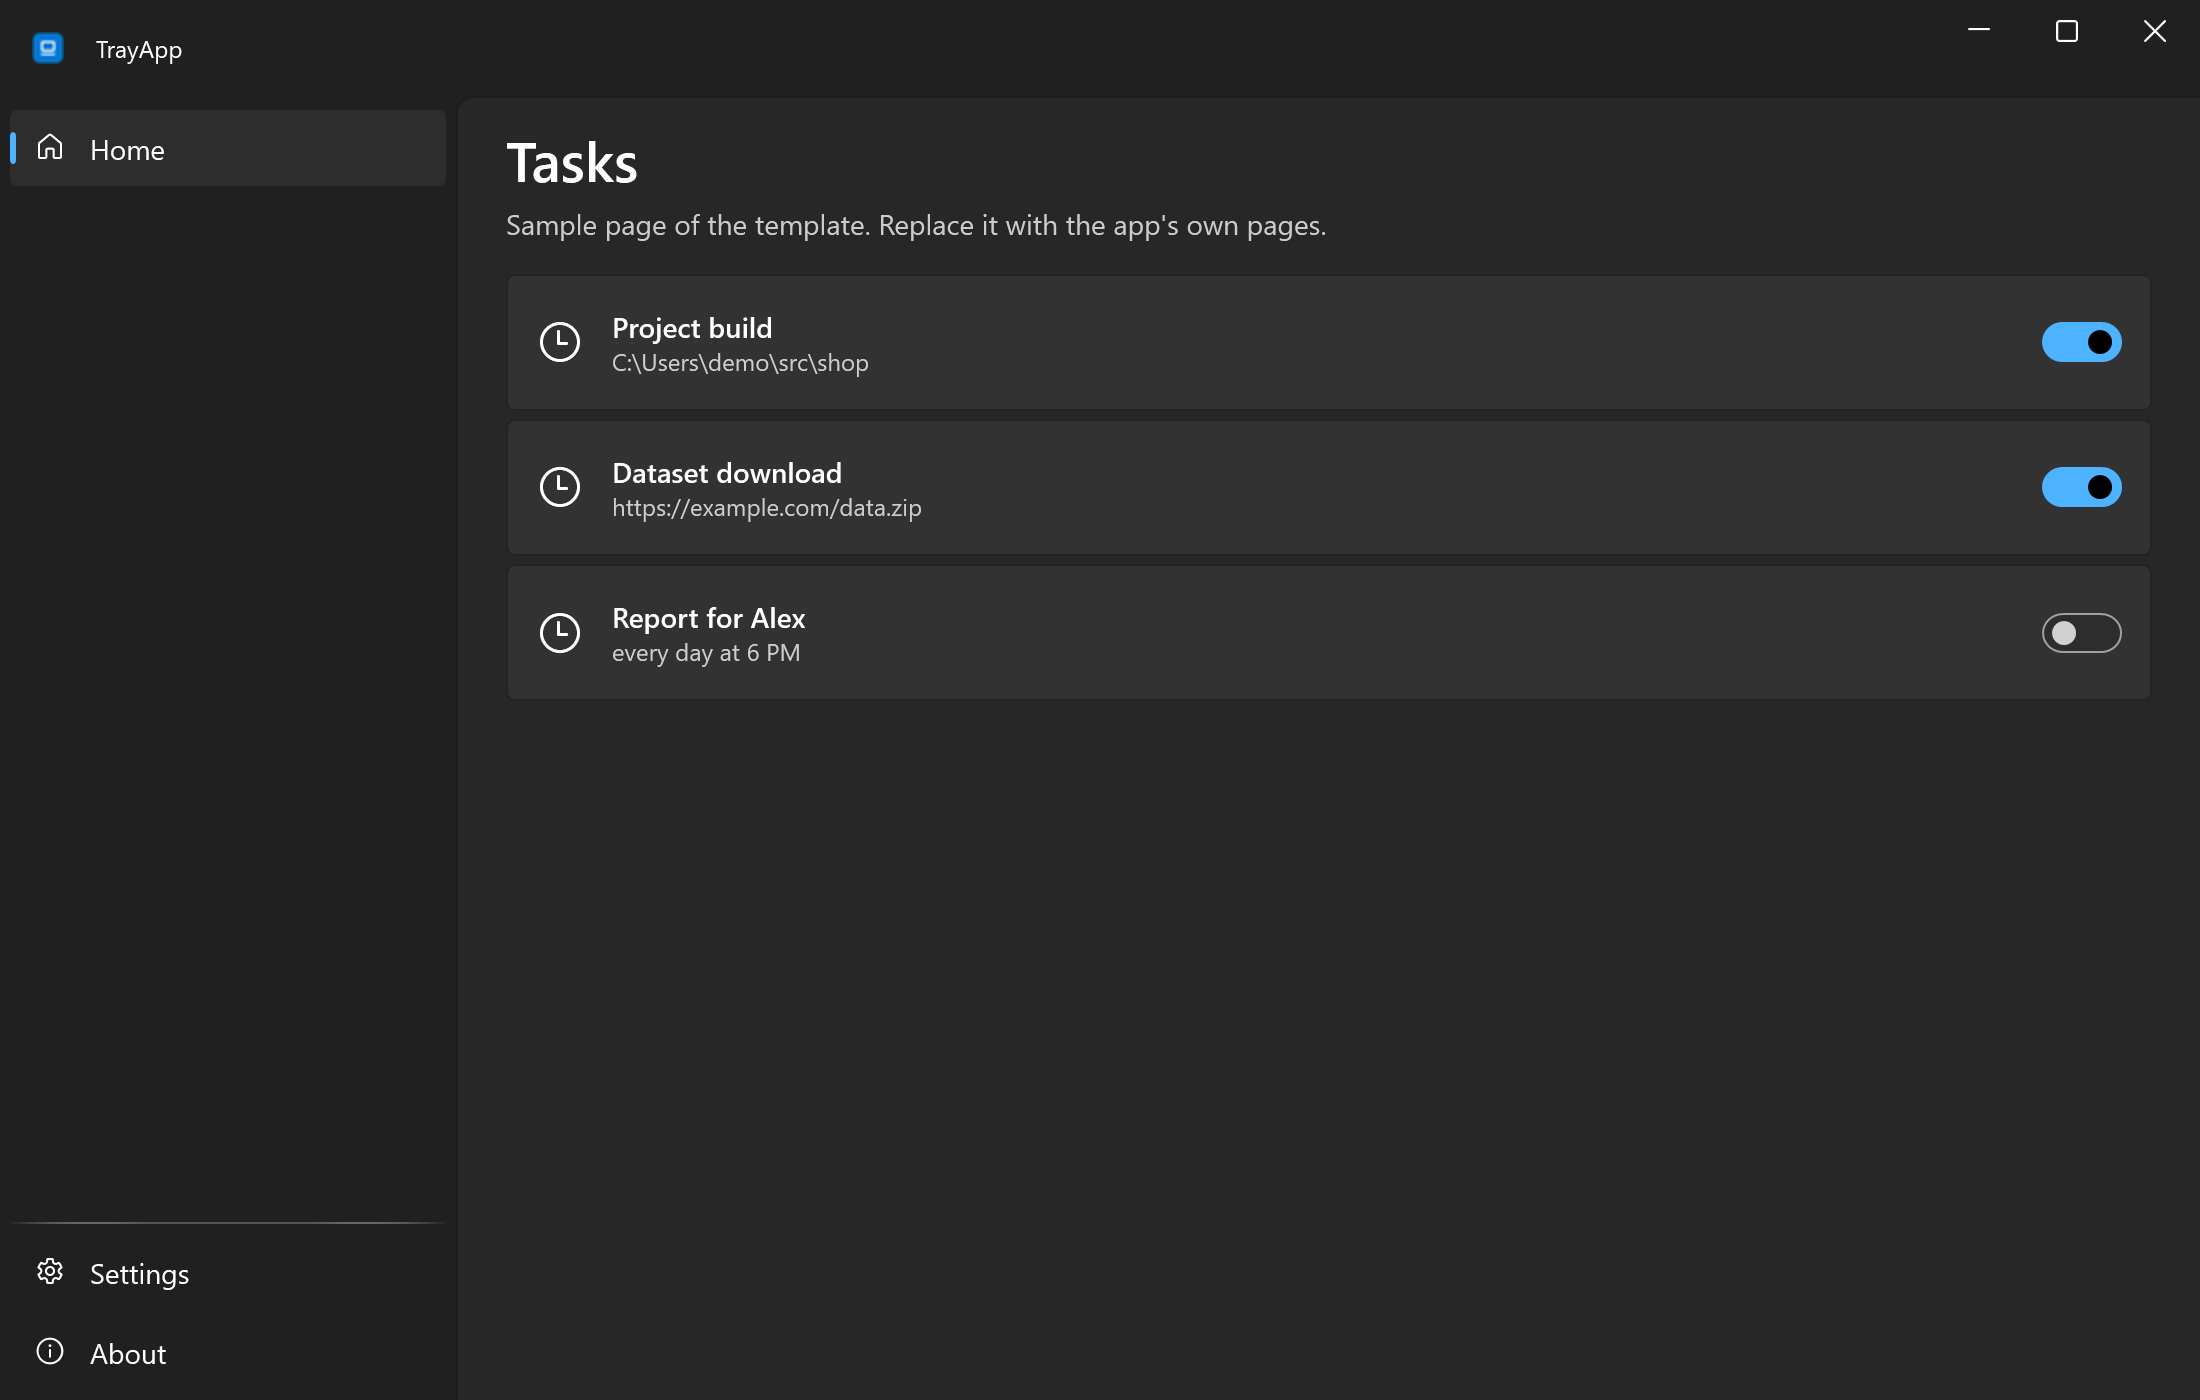
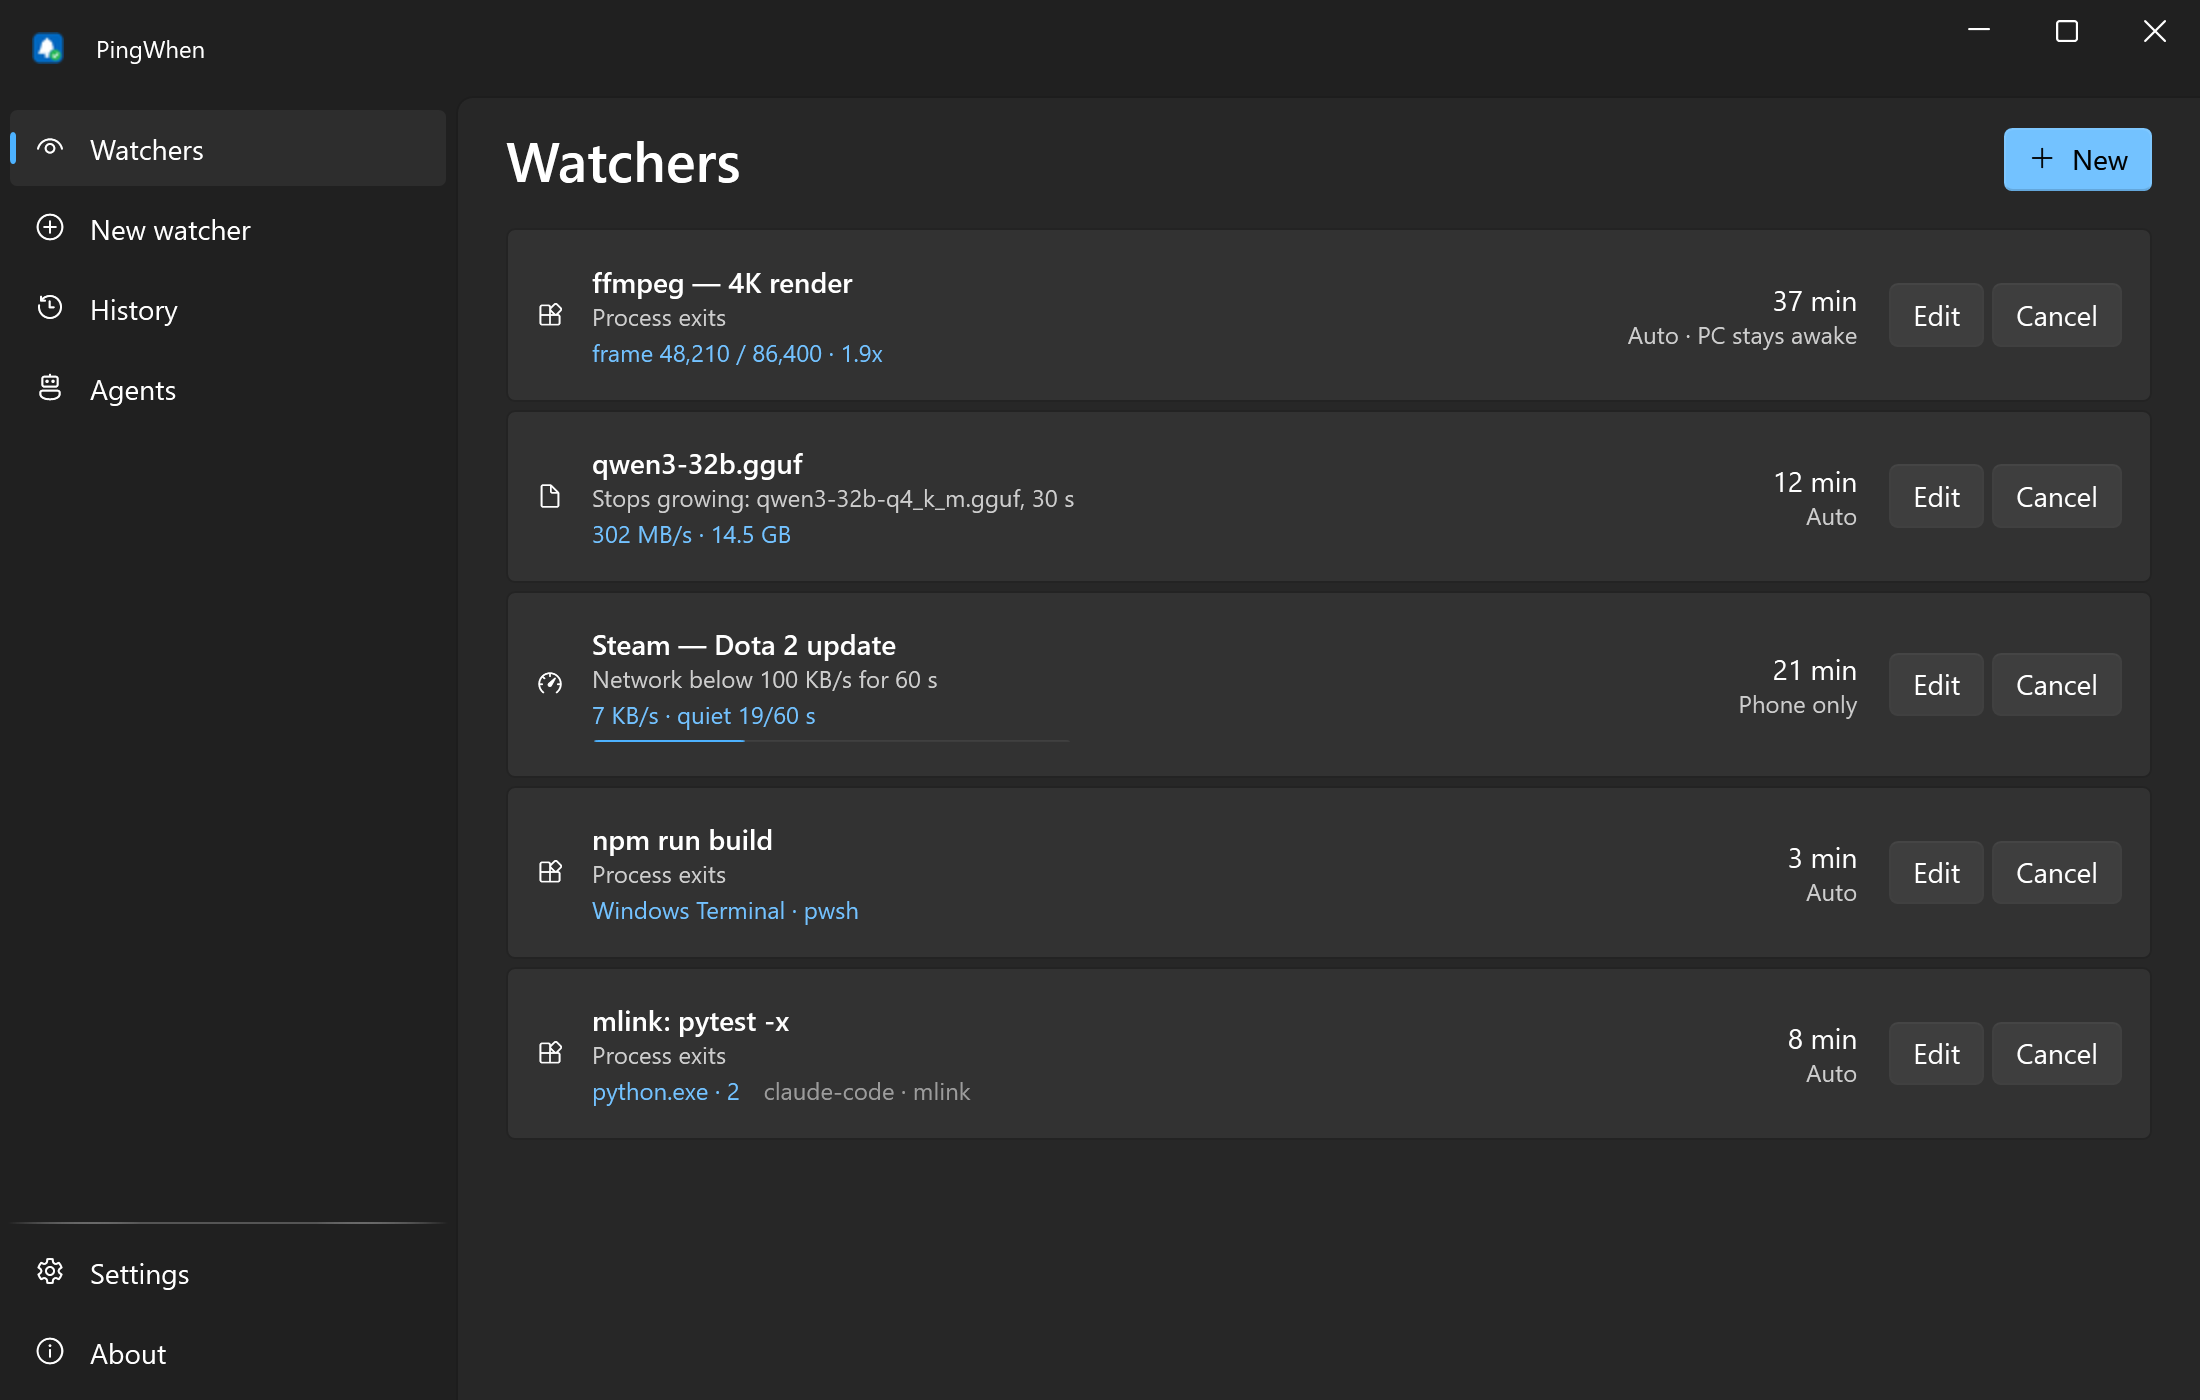
Never let the pipe server, engine loop or UI handlers crash the tray; scene GIF placement
The shell turns unobserved task exceptions into a crash report and exit, so fire-and-forget paths
now log instead. --autoplay places the window in the bottom-right 1280x720 of the work area, where
the toast slides in, and hides it 2 s after Watch.

diff --git a/src/PingWhen/Demo/Autoplay.cs b/src/PingWhen/Demo/Autoplay.cs
@@ -1,12 +1,39 @@
+using System.Windows;
+using System.Windows.Threading;
+
 namespace PingWhen.Demo;
 
 /// <summary>
-/// --autoplay is the scene GIF (spec §10), recorded by the owner in a slot with the working instance closed:
-/// Windows Terminal runs docs\fake-progress.ps1 → Ctrl+Alt+W → the page with "pwsh → fake-progress.ps1" and
-/// "Process exited" → Enter → the card → (cut) 100 % → the toast. Nothing is scripted: the window starts hidden,
-/// the hotkey is registered in this demo (Hotkeys.RegisterInDemo) and the engine watches the real script.
+/// --autoplay is the scene GIF (spec §10), recorded by the owner in a slot with the working instance closed.
+/// The toast slides in at the bottom right of the primary monitor, so the scene is the bottom-right 1280×720
+/// of its work area (owner: X 2160, Y 688): Windows Terminal there runs docs\fake-progress.ps1 → Ctrl+Alt+W →
+/// the page with "pwsh → fake-progress.ps1" and "Process exited" → Enter → the card → the window hides →
+/// 100 % → the toast. Nothing is scripted: the hotkey is registered in this demo and the engine watches the real script.
 /// </summary>
 public static class Autoplay
 {
-    public static void Start(MainWindow w) => w.Hide();
+    public static Rect Scene
+    {
+        get
+        {
+            var work = SystemParameters.WorkArea;
+            return new Rect(work.Right - 1280, work.Bottom - 720, 1280, 720);
+        }
+    }
+
+    public static void Start(MainWindow w)
+    {
+        var s = Scene;
+        (w.Left, w.Top) = (s.Left + 20, s.Top + 20);
+        w.Hide();
+    }
+
+    /// <summary>After Watch: show the card briefly, then get out of the way of the terminal and the toast.</summary>
+    public static void AfterWatch(Window w)
+    {
+        if (!Shell.Args.Current.Autoplay) return;
+        var t = new DispatcherTimer { Interval = TimeSpan.FromSeconds(2) };
+        t.Tick += (_, _) => { t.Stop(); w.Hide(); };
+        t.Start();
+    }
 }

diff --git a/src/PingWhen/Features/NewWatcherPage.xaml.cs b/src/PingWhen/Features/NewWatcherPage.xaml.cs
@@ -60,7 +60,11 @@ public partial class NewWatcherPage
         MetricBox.SelectionChanged += (_, _) => MetricChanged();
         FilePath.TextChanged += (_, _) => RefreshTitle();
         Browse.Click += (_, _) => BrowseFile();
-        WatchButton.Click += async (_, _) => await Watch();
+        WatchButton.Click += async (_, _) =>
+        {
+            try { await Watch(); }
+            catch (Exception e) { Log.Error("watch", e); ErrorBar.Title = e.Message; ErrorBar.IsOpen = true; }
+        };
         CancelButton.Click += (_, _) => App.ShowMain("main");
         Loaded += (_, _) =>
         {
@@ -169,7 +173,12 @@ public partial class NewWatcherPage
                 .Where(x => x.path is not null)
                 .Select(x => new Item(x.p, $"{x.p.Exe} · {x.p.Pid}{(x.cmd is null ? "" : " · " + Fmt.Cut(Terminals.Short(x.cmd), 90))}", ExeIcon.Get(x.path!)))
                 .OrderBy(i => ((ProcessNode)i.Value).Exe, StringComparer.OrdinalIgnoreCase).ToList())
-            .ContinueWith(t => { allProcs = t.Result; FilterProcs(); }, TaskScheduler.FromCurrentSynchronizationContext());
+            .ContinueWith(t =>
+            {
+                if (t.IsFaulted) { Log.Error("process list", t.Exception); return; }
+                allProcs = t.Result;
+                FilterProcs();
+            }, TaskScheduler.FromCurrentSynchronizationContext());
     }
 
     void FilterProcs()
@@ -263,7 +272,9 @@ public partial class NewWatcherPage
         }
         if (editing is not null) await Engine.Current.Replace(w);
         else await Engine.Current.Add(w);
+        var win = Window.GetWindow(this); // before navigating away from this page
         App.ShowMain("main");
+        if (win is not null) Demo.Autoplay.AfterWatch(win);
     }
 
     /// <summary>The notification and condition fields onto <paramref name="w"/>.</summary>

diff --git a/src/PingWhen/Features/PingSettingsView.xaml.cs b/src/PingWhen/Features/PingSettingsView.xaml.cs
@@ -97,6 +97,7 @@ public partial class PingSettingsView
             Show();
         }
         catch (TgError e) { Show(Telegram.Describe(e)); }
+        catch (Exception e) { Log.Warn("telegram", Telegram.Scrub(e)); Show(Telegram.Scrub(e.Message)); }
         finally { CheckButton.IsEnabled = true; }
     }
 
@@ -122,6 +123,7 @@ public partial class PingSettingsView
         }
         catch (OperationCanceledException) { error = DateTime.UtcNow >= pairUntil ? Loc.T("Tg.CodeExpired") : null; }
         catch (TgError e) { error = Telegram.Describe(e); }
+        catch (Exception e) { Log.Warn("telegram pairing", Telegram.Scrub(e)); error = Telegram.Scrub(e.Message); }
         finally
         {
             countdown.Stop();
@@ -159,6 +161,7 @@ public partial class PingSettingsView
             StatusText.Text = Loc.T("Tg.TestSent");
         }
         catch (TgError e) { Show(Telegram.Describe(e)); }
+        catch (Exception e) { Log.Warn("telegram", Telegram.Scrub(e)); Show(Telegram.Scrub(e.Message)); }
         finally { TestButton.IsEnabled = true; }
     }
 
@@ -176,5 +179,6 @@ public partial class PingSettingsView
             StatusText.Text = Loc.T("Tg.TestSent");
         }
         catch (TgError e) { Show(Telegram.Describe(e)); }
+        catch (Exception e) { Log.Warn("telegram", Telegram.Scrub(e)); Show(Telegram.Scrub(e.Message)); }
     }
 }

diff --git a/src/PingWhen/Features/Engine.cs b/src/PingWhen/Features/Engine.cs
@@ -207,6 +207,7 @@ public sealed class Engine
         using var timer = new PeriodicTimer(TimeSpan.FromSeconds(1));
         Task<bool>? tick = null, read = null;
         while (true)
+        try
         {
             while (commands.Reader.TryRead(out var cmd))
                 try { cmd(); } catch (Exception e) { Log.Error("engine command", e); }
@@ -227,6 +228,7 @@ public sealed class Engine
             try { Tick(); } catch (Exception e) { Log.Error("engine tick", e); }
             if (dirty && Environment.TickCount64 - lastSave >= 1000) Save(); // debounce 1 s
         }
+        catch (Exception e) { Log.Error("engine loop", e); await Task.Delay(1000); } // never let the loop die
     }
 
     void Save()

diff --git a/src/PingWhen/Features/Agents.cs b/src/PingWhen/Features/Agents.cs
@@ -62,6 +62,7 @@ public static class PipeServer
             }
         }
         catch (OperationCanceledException) { }
+        catch (Exception e) { Log.Error("pipe server stopped", e); } // e.g. the name is taken by another user's pipe: agents are off, the app lives
         finally { Running = false; }
     }
 

diff --git a/README.md b/README.md
@@ -41,7 +41,7 @@ Planned for v1.0: region watch with pixel diff and Windows OCR, screenshots in n
 | | |
 |---|---|
 | ![New watcher for a Windows Terminal command](docs/new-dark-en.png) | ![History](docs/history-dark-en.png) |
-| ![Agents: MCP command and hooks](docs/agents-light-en.png) | ![Settings: Telegram bot](docs/settings-light-en.png) |
+| ![Agents: MCP command and hooks](docs/agents-light-en.png) | ![Settings: Telegram bot](docs/telegram-light-en.png) |
 
 ## Download
 
